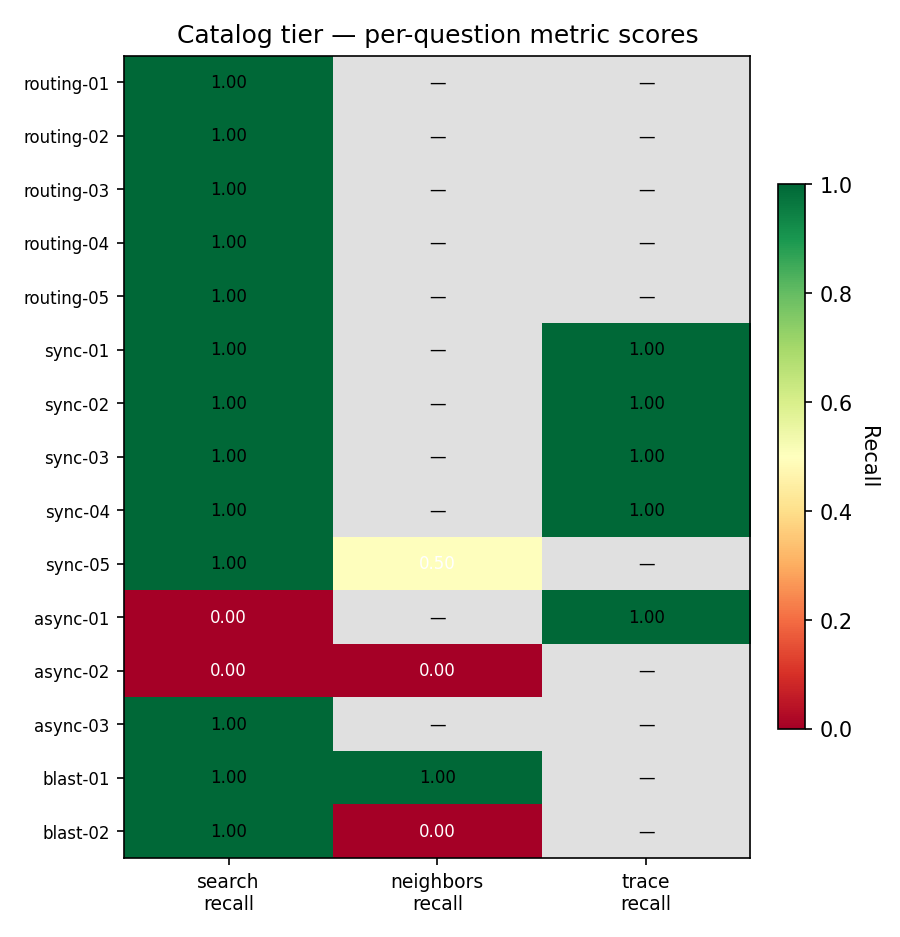
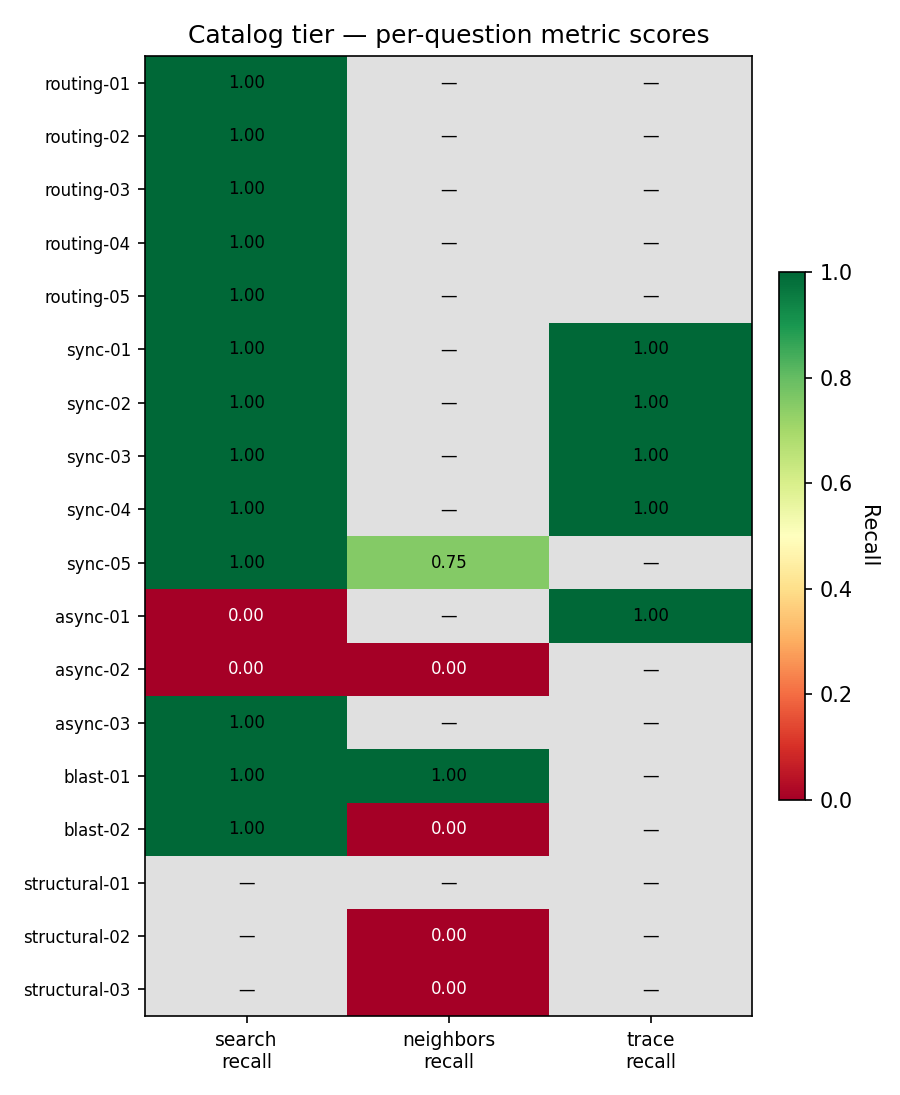
evals: iter 3 — add structural-quality questions (catalog 11/15 -> 12/18)
Adds a new `structural` category with three catalog-tier questions
that assert internal invariants the catalog should always satisfy.
Added after iter 2 and iter 2.1 both shipped structural bugs that
no user-facing question caught.

  structural-01 — message brokers NOT in providers[]                  PASS
  structural-02 — Resource:shipping-task <- consumesMessage Component:shipping  FAIL
  structural-03 — Resource:shipping-task <- producesMessage Component:orders    FAIL

The two FAILs are the diagnostic point of this iteration: shipping is
currently mis-classified as a producer (real bug from iter 2/2.1) and
orders has never emitted its publish edge. Iter 4 can attempt fixes
with a measurable signal — the eval now numerically detects both.

Changes:
- score.py: add "structural" to CATEGORIES
- catalog_eval.py: support new must_not_exist_refs expectation type
  (uses backend.describe() to verify forbidden refs are absent)
- questions.yaml: 3 new questions, catalog-only (no agent: block)
- evals/assets/: refresh catalog plots (12/18 pass-rate, new heatmap row)
- README: new iter 3 section above iter 1 baseline

Implements part of issue #2 (evaluator coverage) and closes the
"eval insensitive to structural changes" gap surfaced by iter 2.1.

diff --git a/evals/catalog_eval.py b/evals/catalog_eval.py
@@ -57,6 +57,13 @@ def evaluate_question(backend: Any, question: dict) -> dict:
         if expected:
             metrics["neighbors_recall"] = recall_set(found, expected)
 
+    # --- must_not_exist (negative structural assertions) ---
+    if "must_not_exist_refs" in catalog_exp:
+        forbidden = catalog_exp["must_not_exist_refs"]
+        present = [ref for ref in forbidden if backend.describe(ref) is not None]
+        details["forbidden_refs_present"] = present
+        metrics["no_forbidden_refs"] = 1.0 if not present else 0.0
+
     # --- trace ---
     if "trace" in catalog_exp:
         spec = catalog_exp["trace"]

diff --git a/evals/score.py b/evals/score.py
@@ -8,7 +8,7 @@ import re
 from typing import Iterable
 
 
-CATEGORIES = ["routing", "sync-multihop", "async-multihop", "blast-radius"]
+CATEGORIES = ["routing", "sync-multihop", "async-multihop", "blast-radius", "structural"]
 JUDGE_AXES = ["correctness", "specificity", "completeness", "hallucination_risk"]
 
 

diff --git a/evals/README.md b/evals/README.md
@@ -9,6 +9,28 @@ The workspace is [Weaveworks sock-shop](https://microservices-demo.github.io/)
 multi-repo, real cross-language, real async. Exactly the shape that
 exercises the parts of ServiceScout most analogues skip.
 
+## Iteration 3 — added structural-quality questions
+
+Three new catalog-tier questions in a new `structural` category that
+assert internal invariants the catalog should always satisfy. Added
+after iter 2 and iter 2.1 both shipped structural bugs that no
+user-facing question caught.
+
+| Question | Asserts | Iter 3 result |
+|---|---|---:|
+| `structural-01` | Message brokers NOT in `providers[]` (broker is transport, not entity) | **PASS** — iter 2.1's structural win confirmed |
+| `structural-02` | `Resource:shipping-task` has `consumesMessage` in-edge from `Component:shipping` | **FAIL** — shipping wrongly marked as producer |
+| `structural-03` | `Resource:shipping-task` has `producesMessage` in-edge from `Component:orders` | **FAIL** — orders' publish edge missing entirely |
+
+These add no LLM cost (catalog-only) and turn two previously-invisible
+bugs into measurable signals. **Catalog tier moved from 11/15 → 12/18**:
++1 pass from the new structural-01 win, and the same 11 existing
+questions still pass.
+
+Iter 4 can now attempt to fix `shipping` direction and `orders` missing
+publish with a quantitative signal that the eval suite will register
+the improvement.
+
 ## Iteration 1 — baseline results
 
 First-run benchmark with no tuning. 9 sock-shop repos, catalog built via
